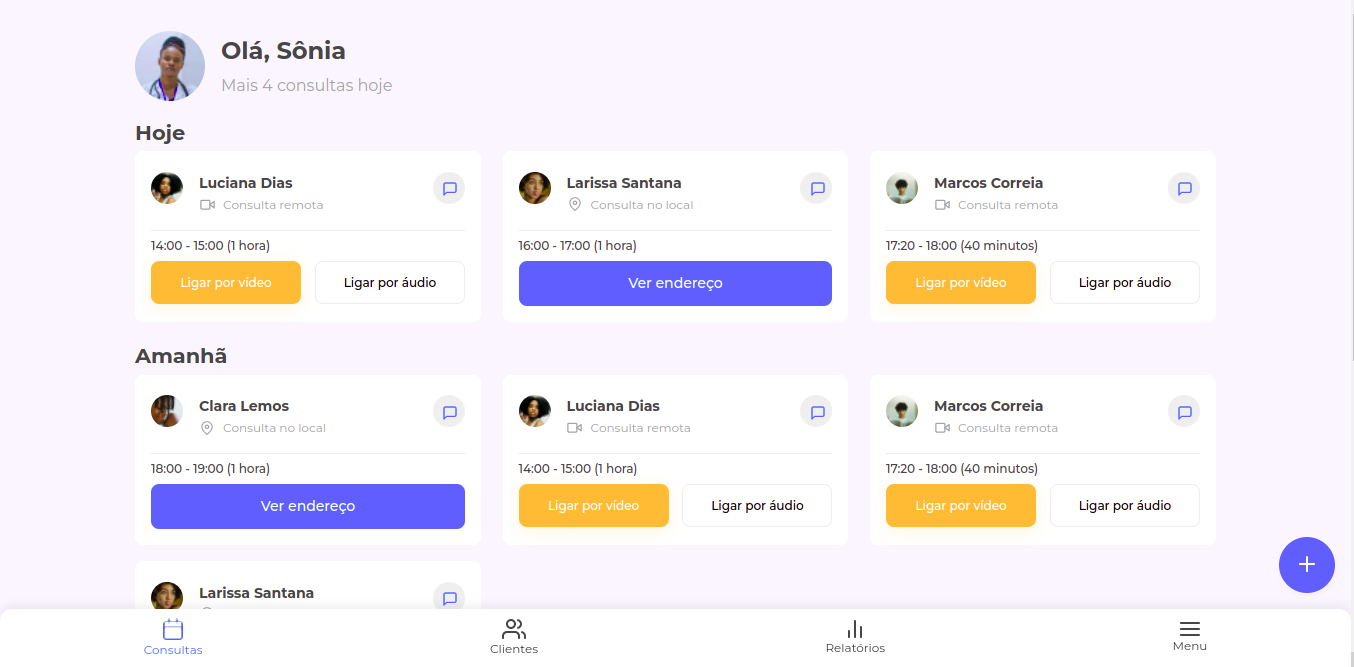
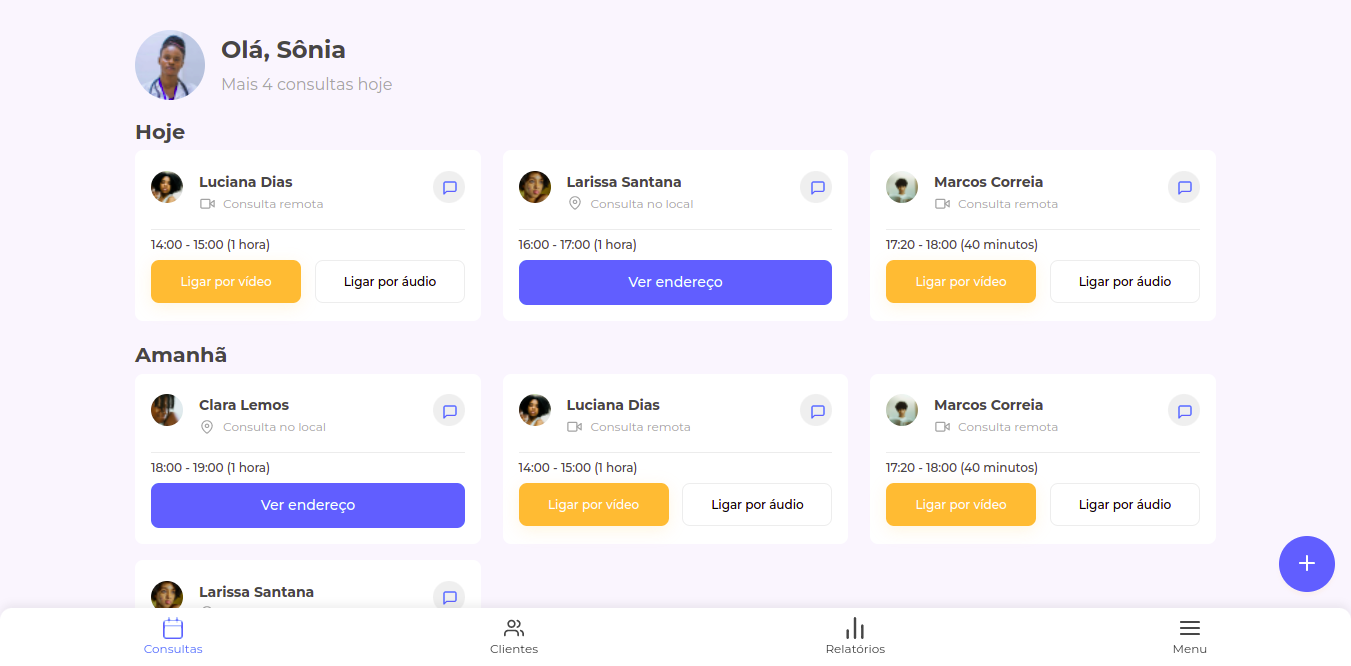
:books: docs: README Update

diff --git a/responsividade/index.html b/responsividade/index.html
@@ -229,7 +229,7 @@
         <span class="menu__text">Relatórios</span>
       </li>
       <li class="menu__item">
-        <img src="assets/img/icons/menu-icon.svg" alt="Ícone menu" class="menu__icon">
+        <img src="assets/img/icons/menu-icon.svg" alt="Ícone menu" class="menu__icon menu__icon--menu">
         <span class="menu__text">Menu</span>
       </li>
     </ul>

diff --git a/responsividade/assets/css/_menu.css b/responsividade/assets/css/_menu.css
@@ -29,6 +29,11 @@
   color: var(--blue);
 }
 
+.menu__icon {
+  height: 22px;
+  width: 20px;
+}
+
 .menu__text {
   color: var(--gray);
   font-size: 12px;

diff --git a/responsividade/README.md b/responsividade/README.md
@@ -24,11 +24,11 @@ A partir desse desafio treinei:
 * componentização;
 
 ### Screenshot
-![screenshot desktop layout]()
+![screenshot desktop layout](./screenshot-desktop.png)
 
 <div align="center">
-  <img src="./assets/mobile.jpg" alt="Layout mobile">
-  <img src="./assets/mobile-active.jpg" alt="Layout mobile menu ativo">
+  <img src="./screenshot-mobile.png" alt="Layout mobile">
+  <img src="./screenshot-mobile-active.png" alt="Layout mobile menu ativo">
 </div>
 
 ## Status do Projeto
@@ -40,7 +40,7 @@ Finalizado
 * JS
 
 ## Acesso ao projeto
-Você pode acessar o [código fonte do projeto](https://github.com/nalutm/seven-days-of-code/tree/main/responsividade). Também pode acessar a [página para conferir o resultado final]().
+Você pode acessar o [código fonte do projeto](https://github.com/nalutm/seven-days-of-code/tree/main/responsividade). Também pode acessar a [página para conferir o resultado final](https://seven-days-of-code-henna.vercel.app/).
 
 ## Autora
 [Nayara Luiza Tavares Moraes](https://github.com/nalutm)

diff --git a/README.md b/README.md
@@ -54,13 +54,14 @@ Como parte de um desafio extra, desenvolvi uma versão de layout mobile
 
 #### Screenshot
 <div align="center">
-  <img src="./responsividade/screenshot-mobile.jpg" alt="Resultado layout mobile">
+  <img src="./responsividade/screenshot-mobile.png" alt="Resultado layout mobile">
+  <img src="./responsividade/screenshot-mobile-active.png" alt="Resultado layout mobile">
 </div>
 
 #### Links
-* [Protótipo figma](https://www.figma.com/file/mm3MLozvUDGhDRTxSLlGL5/7daysOfCode-HTML-CSS?node-id=0%3A1)
-* [Código fonte](https://github.com/nalutm/seven-days-of-code/tree/main/html-css)
-* [Resultado final](https://seven-days-of-code-beta.vercel.app/)
+* [Protótipo figma](https://www.figma.com/file/4OjHFmeHAgfX2JpRymOeA0/7days---Responsividade?node-id=6%3A622)
+* [Código fonte](https://github.com/nalutm/seven-days-of-code/tree/main/responsividade)
+* [Resultado final](https://seven-days-of-code-henna.vercel.app/)
 
 ## Autora 
 [Nayara Luiza Tavares Moraes](https://github.com/nalutm)
